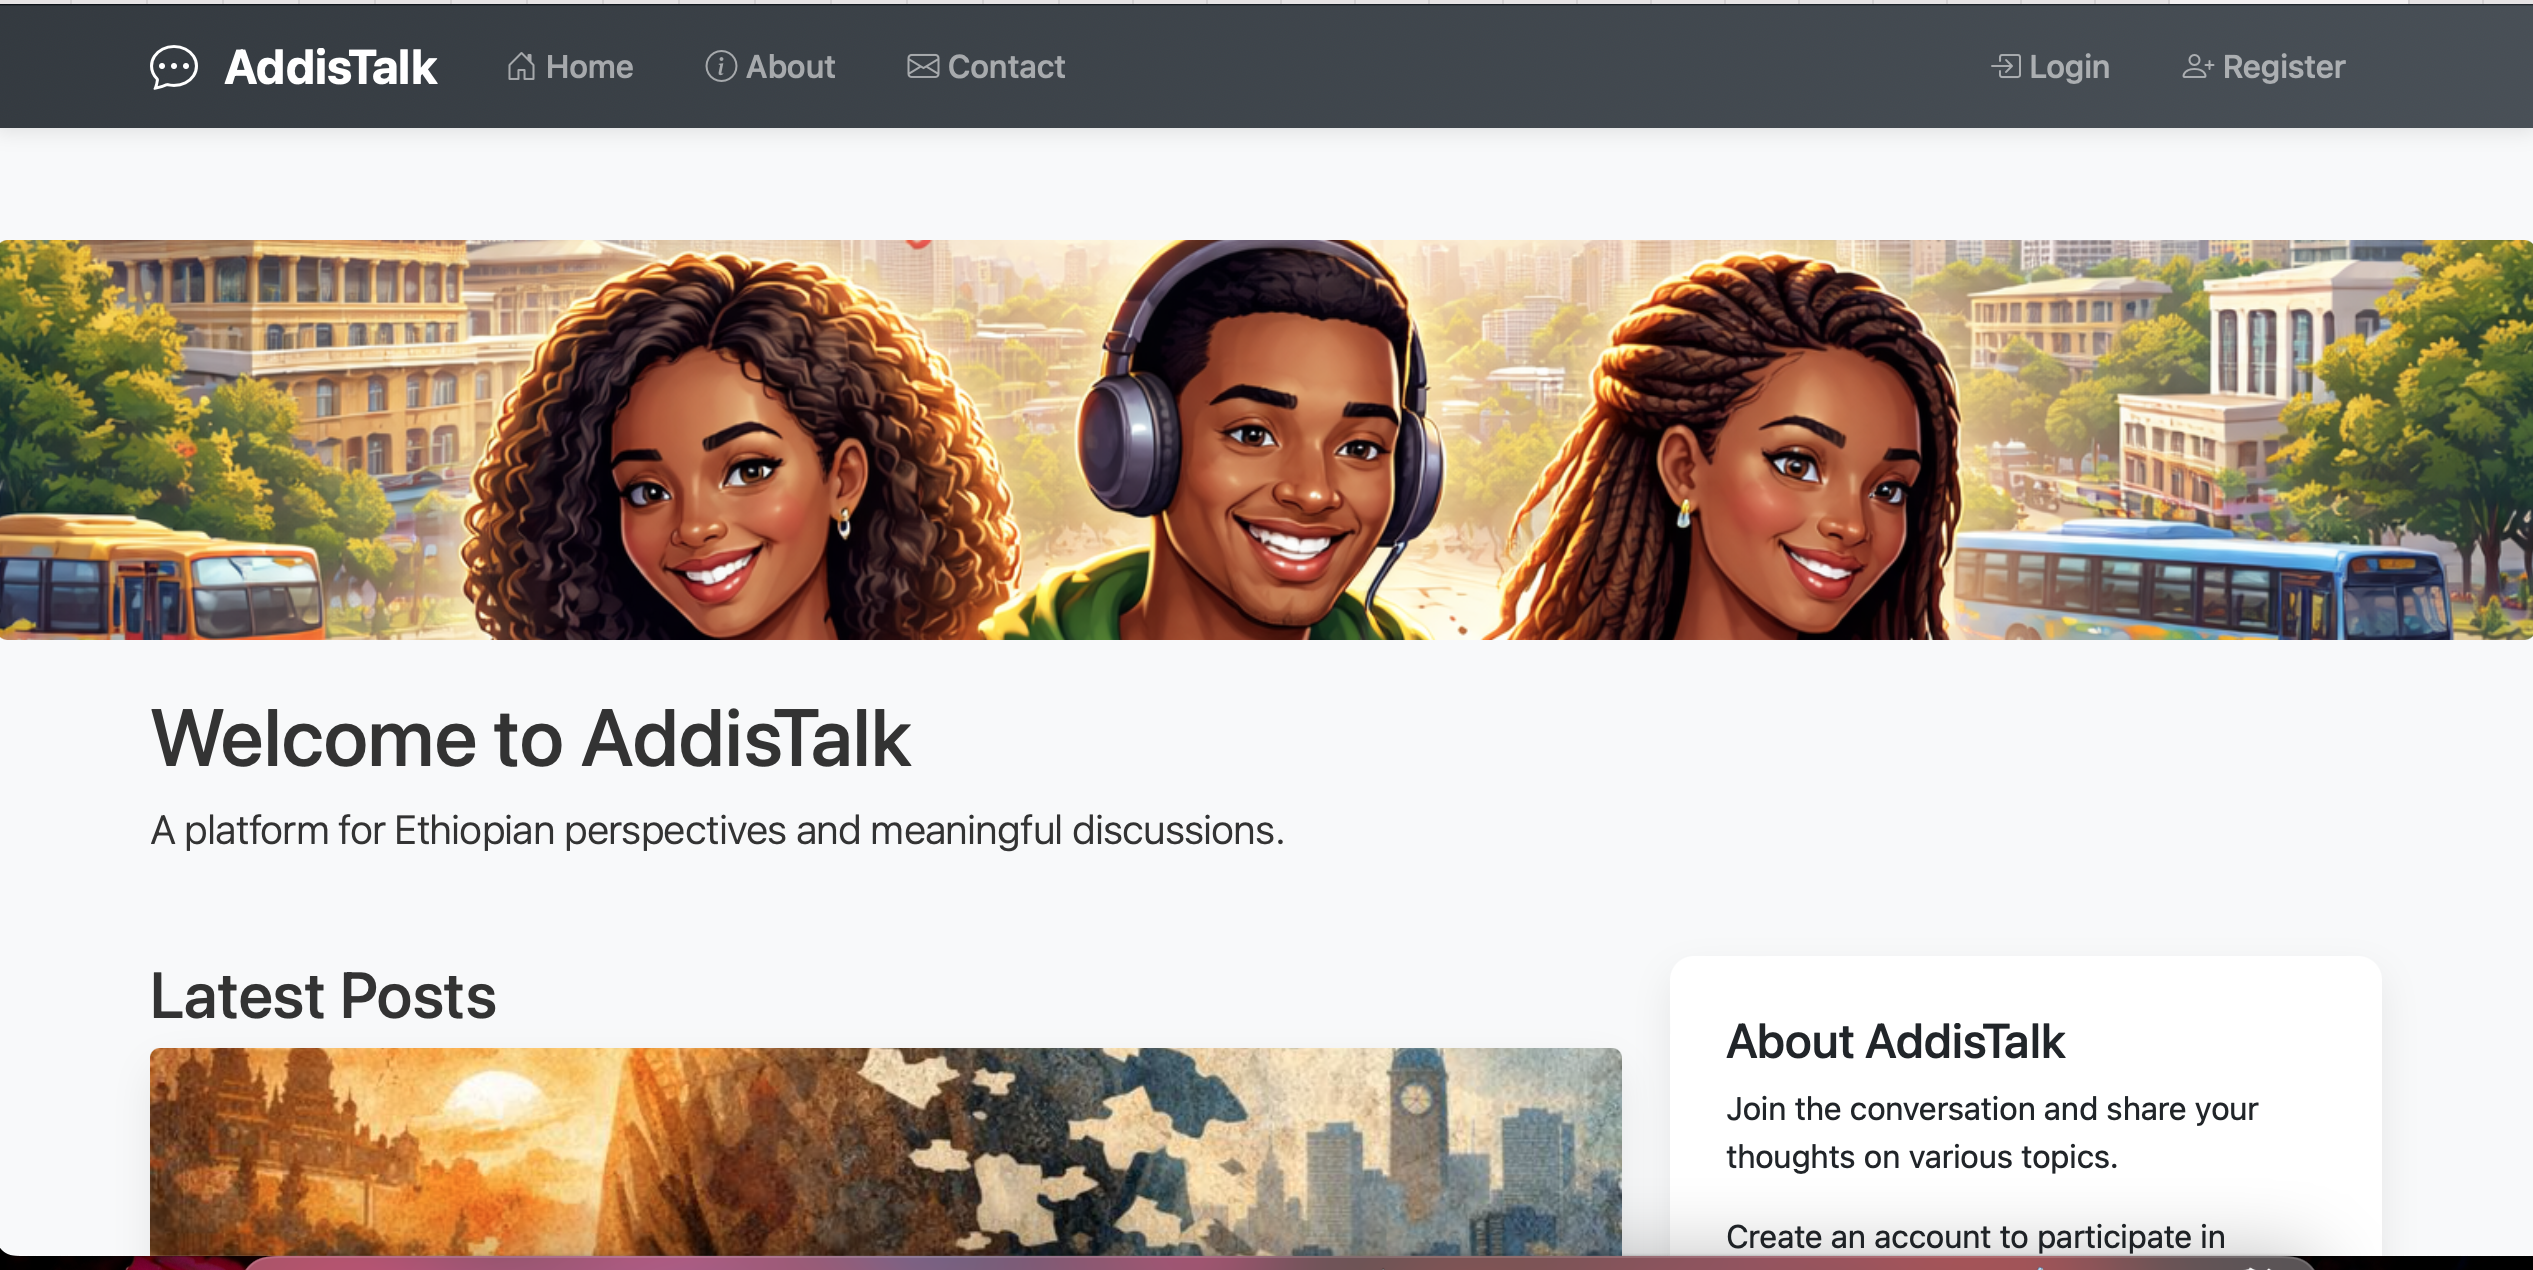
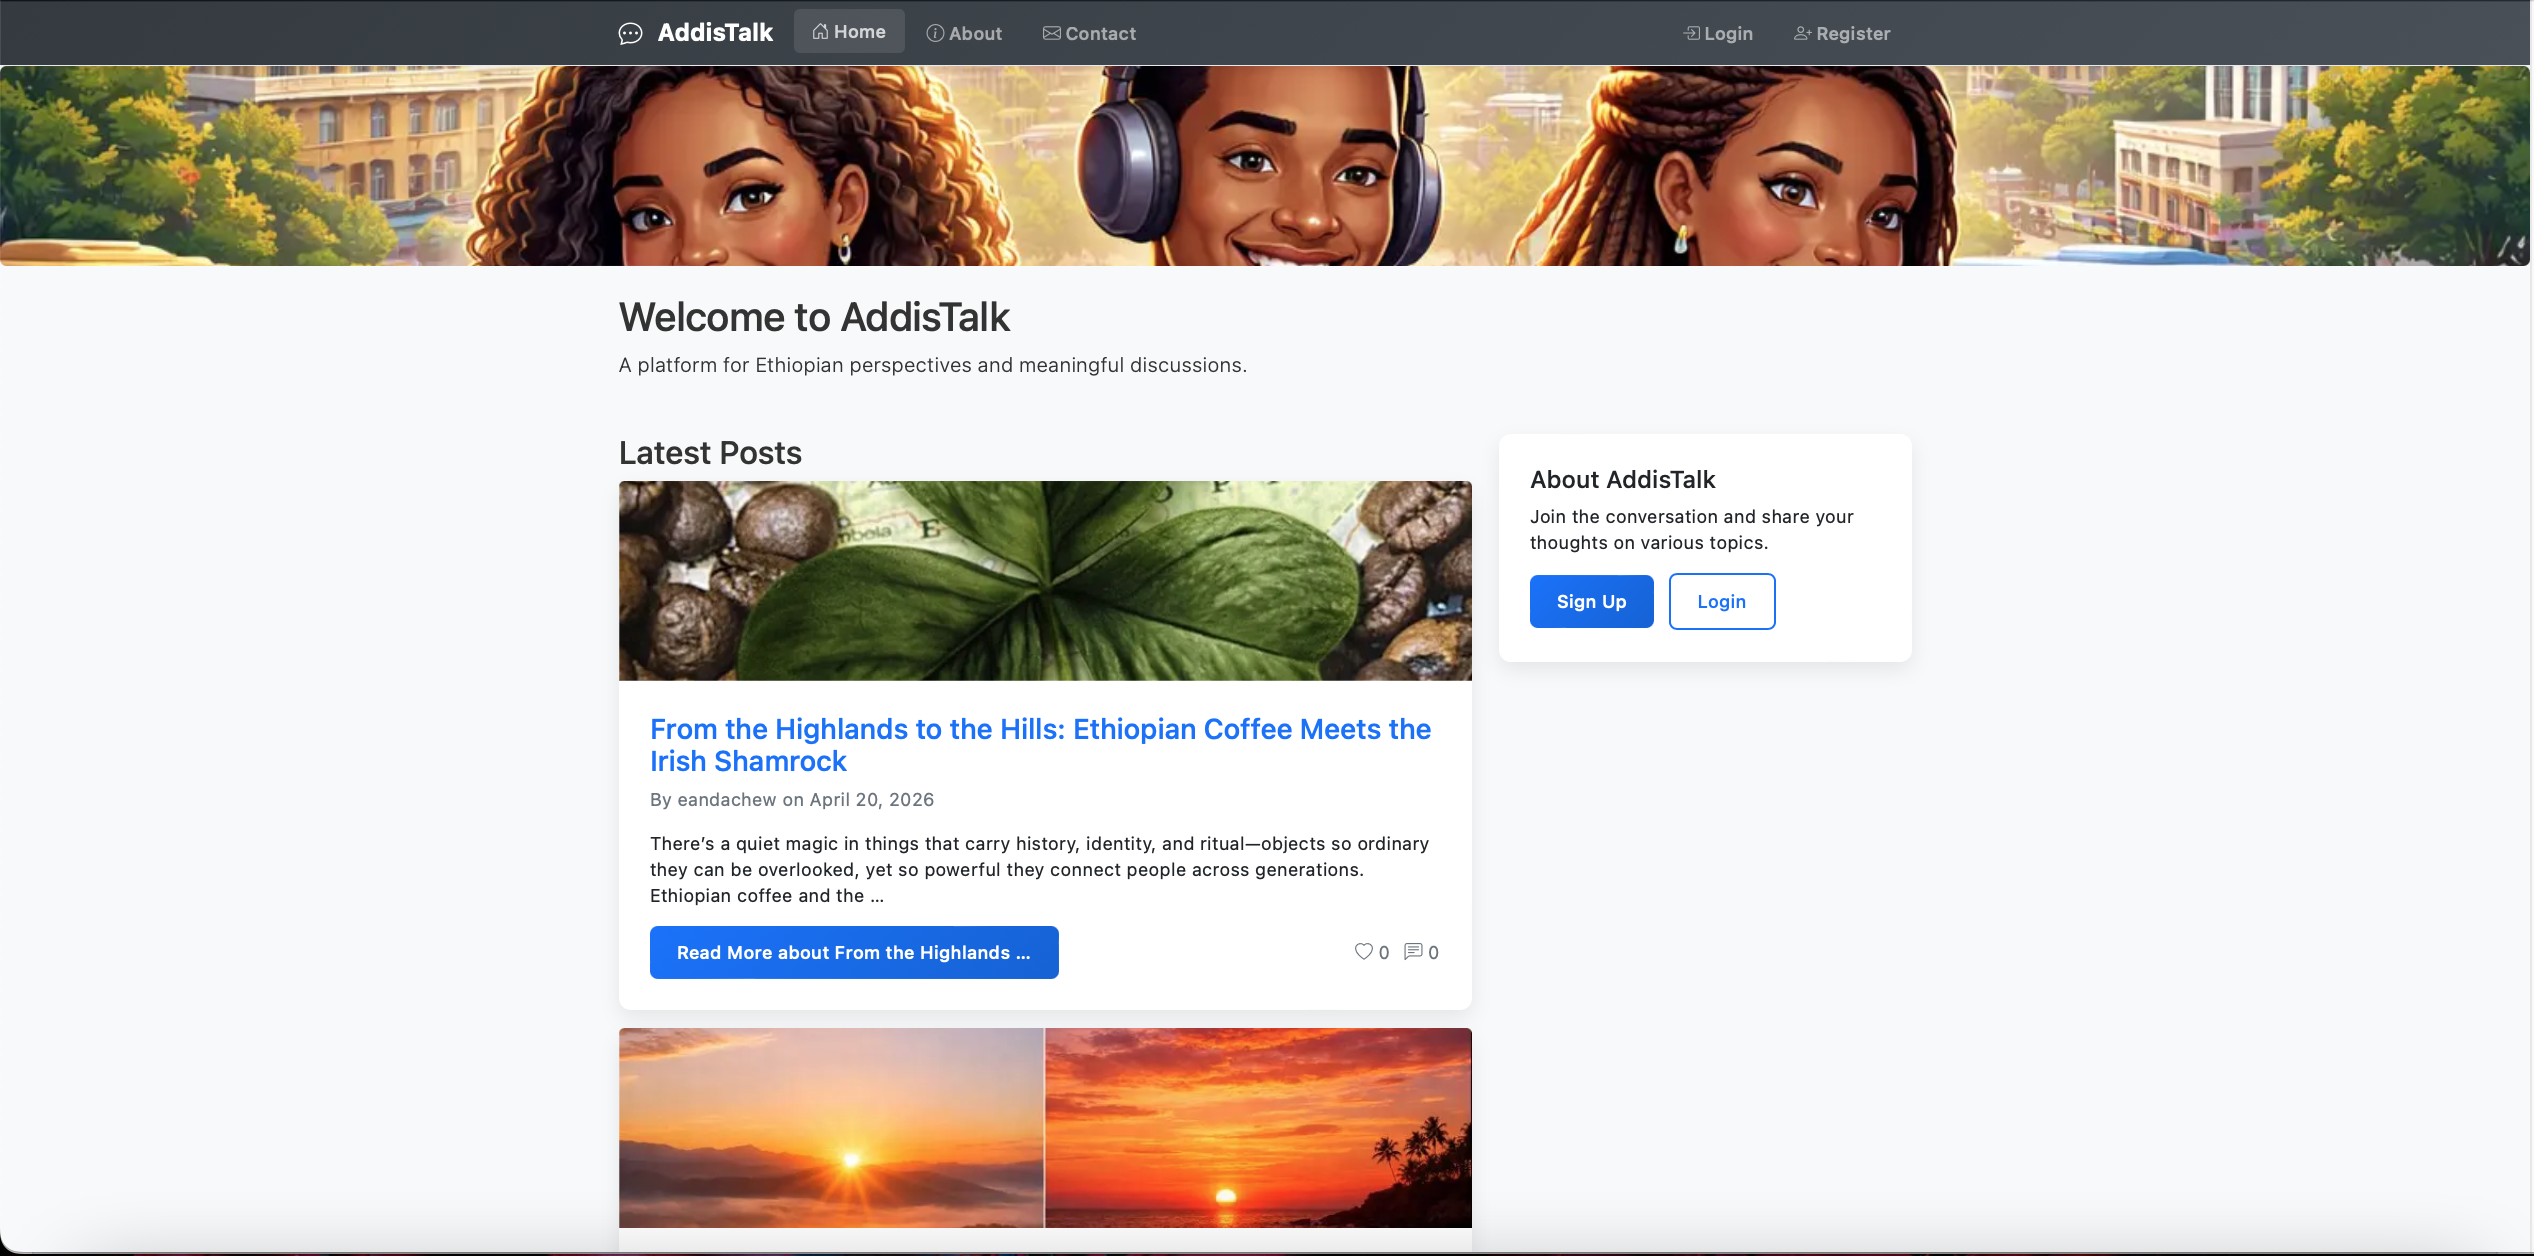
table of content for for validator adde in testing and index html error span fixed for validator

diff --git a/blog/templates/blog/index.html b/blog/templates/blog/index.html
@@ -56,8 +56,8 @@
                                 Read More about {{ post.title|truncatewords:3 }}
                             </a>
                             <div class="text-muted small">
-                                <span aria-label="{{ post.likes.count }} likes"><i class="bi bi-heart"></i> {{ post.likes.count }}</span>
-                                <span aria-label="{{ post.comments.count }} comments"><i class="bi bi-chat-left-text ms-2"></i> {{ post.comments.count }}</span>
+                                <span><i class="bi bi-heart" aria-hidden="true"></i> <span class="sr-only">likes:</span> {{ post.likes.count }}</span>
+                                <span class="ms-2"><i class="bi bi-chat-left-text" aria-hidden="true"></i> <span class="sr-only">comments:</span> {{ post.comments.count }}</span>
                             </div>
                         </div>
                     </div>

diff --git a/TESTING.md b/TESTING.md
@@ -30,6 +30,13 @@
   - [Comments](#comments)
   - [Likes](#likes)
   - [Navigation]()
+- [Validators](#validators)
+    + [CSS](#css)
+    + [Javascript](#javascript)
+    + [Python](#python)
+    + [Html](#html)
+- [Responsiveness and Browsers](#responsiveness-and-browsers)
+- [Accessibility](#accessibility)
 
 ## User Stories 
  
@@ -205,4 +212,4 @@ So that I can understand what the site offers.
     - Each app was tested using Django unit testing.
     - Tests were written to test the URLs, Models, Forms, and the Views.
     - To run the tests in the terminal you can type the following command
-    -
+
